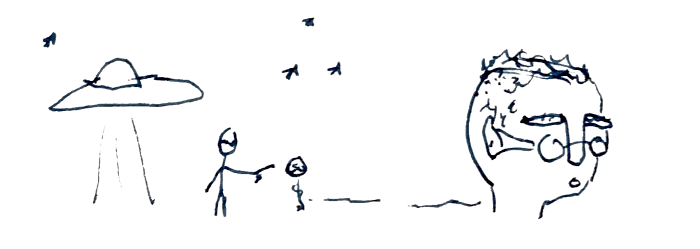
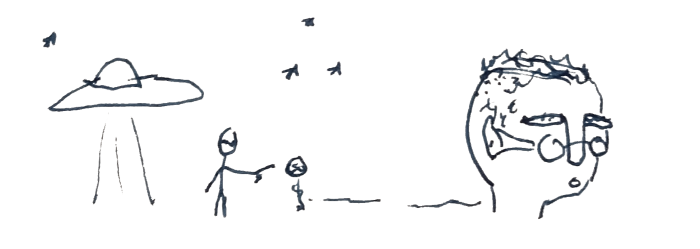
dreamwork page

diff --git a/content/Dreamwork and Hypnosis.md b/content/Dreamwork and Hypnosis.md
@@ -6,3 +6,77 @@ My dreamwork services are for more than ET contact or SETI.  I often work with p
 My dreamwork and hypnosis services start with a free and no-obligation consultation, in which we can meet each other and discuss your inquiry.  I typically recommend a series of 3 90-minute sessions or a single 3-5 hour session, which goes through a methodical and slow process to build rapport and document our work.  My sessions are offered by sliding-scale donation, which you pay via credit card (no PayPal account necessary) after I provide you with a link to download the session recording.
 
 Please email me if you have any questions or use this form to schedule your consultation.
+
+# FAQ
+
+Dreamwork, hypnosis, and ET/NHI contact narratives are sometimes very confusing.  It's okay to not know what hypnosis or dreamwork is.  It's okay you might not remember your dreams.  It's okay that you think ET/NHI contact might be silly or a psy-op.  
+
+Dreamwork is not about believing any one thing, uncovering any one truth, or accomplishing any one goal.  It is not therapy, although it can be therapeutic. Feel free to get in touch if you have any questions through the [[Contact]] page.
+
+## What is dreamwork?
+
+Dreamwork is the practice of working with dreams.  Typically, it involves a process, tradition, guide, facilitator, priest, therapist, etc.  You naturally do dreamwork when you share your dream with a partner, ask about its meaning, and wonder if you should take some action, like talking to the person you dreamed about. There are several definitions of that are particularly relevant for D-SETI Dreamwork.
+
+First, D-SETI Dreamwork looks to the ancient Greek practice of dream incubation that is expressed through the traditions related to Asclepius, the god of dreams and medicine.  These traditions represent a mystical and shamanic legacy from which Western science arose, but then ignored.  For example, I understand the Socratic Myths to be archetypal examples of Western dreamwork.
+
+Second, D-SETI looks to the definition of hypnotic dreams, especially through Deidre Barrett's dissertation.  Barrett used hypnosis to induce dream-like trances, suggesting to the hypnotee that they have a dream.  She then compared the content of the reports.  To my eyes, this use of hypnosis is the most pure and archetypal use of hypnosis, from which the various models of regression hypnosis unconsciously derive. 
+
+Third, D-SETI looks to contemporary dreamwork traditions that derive from Kilton Stewart's influence, which intersected with academic dreamwork but caused controversy.  Stewart, like Carlos Castenda, wrote a fiction about another culture regarding real imaginal things.  This definition of dreamwork opens D-SETI up to the cultural practice of working with dreams, regardless if the literary basis derives from fiction.
+
+There are many other influences on D-SETI Dreamwork, which include Carl Jung and Michael Harner.  D-SETI looks to the International Association of the Study of Dreams for ethical guidelines in dreamwork practice and education.  
+
+## Is D-SETI Dreamwork as modality or special type of dreamwork?
+
+Yes and no.  I was trained in Depth Hypnosis, Beyond Quantum healing, and educated about a lot of psycho-spiritual modalities.  I've synthesized it into my practice and I've honed it down to a repeatable process that I've documented in a draft process definition document and in a training curriculum.  
+
+## How is dreamwork like hypnosis?
+
+D-SETI Dreamwork uses hypnosis to induce a trance and offer the suggestion to have a dreamlike experience that responds to our intentions.  However, dreamwork in general does not need to involve hypnosis.  You could tell stories, act dreams out, make art, or whatever to work with the dream.
+
+## How is D-SETI Dreamwork an alternative to UFO missing time regression?
+
+I am trained in Depth Hypnosis and Beyond Quantum Healing, which offer psycho-spiritual practices like past life regression or age regression.  Both trainings understand the session to be like a spiritual sacrament, suggesting that the experience is more for inner healing than investigation.  However, many experiencers skip over the small text and spiritual words, assuming they already know how hypnosis works because they've seen videos online or read abduction literature.
+
+The actual practice of hypnosis used to generate testimonies of alien encounters is quite controversial.  Most of my writing follows the edge of false memory risk in alien research.  I've written this all out in [[Experiencer's Guide to Hypnosis and False Memory]], the only thing you need to know is that the abduction researchers used at least two distinct types of hypnosis.  First, the more psycho-spiritual dream-like trance hypnosis.  Second, forensic and clinical hypnosis for memory recovery.  The trouble happened when John E. Mack used the term hypnosis in the 1990s because he meant the spiritual-trance type of hypnosis, but everyone assumed he meant the forensic clinical type of hypnosis because he was head of Harvard Psychiatry.  We assumed he learned his medical training informed his hypnosis practice, but actually was trained by Budd Hopkins.
+
+I've can offer the same experience as the abduction researchers, but I interpret it differently.  I know that researchers can easily induce false memories through dream interpretation.  I know that hypnosis typically produces dream-like experiences.  I know that most abductions are highly similar to dreams and happen in similar spaces.  My hypothesis is that these are special types of dreams that are actually real in some psycho-spiritual way.
+
+# How D-SETI Dreamwork Works
+
+The process is always individual.  We build rapport where you are at.  If you want to send me pages of dreams, I'll receive them.   If you want to message on Reddit, let me know.  If you have a question about me or my work, ask it.  I don't assume you read any of my work.  You don't need to. 
+
+If you and I work together, there's already some type of connection.  It's one of the magical parts of my work and is uncanny to me.  People reach out to me because their dreams tell them, because a video of mine shows up on their feed and there's some omen or connection that drives them forward.
+
+## Start with a free and no obligation consultation
+
+If  you are interested in doing dreamwork with me or sharing your story with me for research, I would love to talk with you.  I offer free and no-obligation conversations for us to just chat about working together and to share stories. It is one of my favorite parts of DSETI.
+
+I offer lengthy initial conversations because you probably have a story that you're digesting, either memories or intuitions of dreams and encounters, or else an interest in these topics in general.  Many people haven't had a chance to really process their stories with another person who knows what you're talking about and won't judge you.
+
+It needs to be free and no-obligation because we're building rapport.  You need to trust me with your story, which defines your reality at some level to your dreaming mind.  
+
+## Sliding-scale donation-based service offering
+
+My services are offered by sliding-scale donations, based on a rate of 90 USD per 90 minute session, which I will "discount" in packages or recurrent scheduling ($60 per session when recurrent).  The donation expectation for half day sessions (quantum sessions) is 299 USD. I will send you a donation link after the session, along with links to our recording (if desired).  This process is modeled after my first mentor in Core Shamanism, Tereza Morena.
+
+My work involves dream shamanism, which involves respecting the dream and its characters as if they are real, while learning to discern the reality and meaning of a variety of dreams.  My dream guides insist that I offer this service in this way so that cash is not a barrier.
+
+I generally commit to an initial series of sessions for any donation level, although I may ask for permission to publish future writing on our sessions or inquiry together, which I understand as the spiritual practice of testifying.  
+
+## Decide a path: series of sessions or mega session
+
+Your first encounter with me and D-SETI Dreamwork usually involves three steps, which you can do either in a single half-day session or through a series of 1.5 hour sessions.  The half day session is based on the Beyond Quantum Healing session format, while the series of session is based on the Depth Hypnosis format.  
+
+## The Three Steps of DSETI Dreamwork
+
+We'll talk about the process together, so I won't say too much now.  There are three steps that I like to take with everyone to build rapport and make both of us feel very safe in approaching the session.  Typically, it takes 2-4 hours before I will invite you into a trance that has no goal beyond safely building rapport.  
+
+1. **Life story as dream,** in which you tell your story and we work with it like a dream
+2. **First trance,** in which we build rapport in the hypnotic trance
+3. **Intentional dreamwork session,** in which we perform action to accomplish your intention in the trance
+
+## Next step: schedule your consultation
+
+If you are interested in doing dreamwork with me, please get in touch.  You can schedule a consultation below.  Feel free to email me at daniel@dseti.org if you need special scheduling (I talk to people all over the world and make it work) or have any questions.
+
+<iframe src="https://calendar.google.com/calendar/appointments/schedules/AcZssZ1_eQera5JML1XH6OfX8zXpbNjGW6KxFYzaRP8BC_nE5Thee6ztEf7vbJ3y4AUbCSrALWIocpMi?gv=true" style="border: 0" width="100%" height="850" frameborder="0"></iframe>

diff --git a/content/Blog/05-07-26 Remembering the D-SETI Message.md b/content/Blog/05-07-26 Remembering the D-SETI Message.md
@@ -53,11 +53,11 @@ Therefore, as one of the first people in Sean's Anomalous Studies concentration,
 
 It turns out, there's a complicated history that must actually be addressed before we continue our academic work.  There was an inquiry of Mack at Harvard, but it was inconclusive.  There is really no good literature on which to base support policies for experiencers.  The best way is to treat everything like a spiritual practice and assume that ET/NHIs are like angels.  Academically, there is some level of narrative detachment, focusing the studies only on the qualitative analysis of reports that stop short of making substantial claims about the world.  In other words, no one will say if Bledsoe is deluded or hoaxing.  No one will say if its is wise for media professionals oversee abductee support groups endorsed by friend-academics who don't quote false memory research.
 
-Anyways, I wrote [[Secret Lurid History of Alien Abduction]] and [[Alien Abduction Believer Syndrome]] then published them on Youtube and my blog, then was kicked out of The Experiencer Group by Jay Christopher King.  He said he received complaints about my inquiry and didn't like how I was going after a well-respected researcher.  I responded in email with strongly worded questions about literature and terms of service, he then forwarded our exchange to Esjborn-Hargens, who had a conversation with me that I needed to clarify was not disciplinary.  
+Anyway, I wrote [[Secret Lurid History of Alien Abduction]] and [[Alien Abduction Believer Syndrome]] then published them on Youtube and my blog, then was kicked out of The Experiencer Group by Jay Christopher King.  He said he received complaints about my inquiry and didn't like how I was going after a well-respected researcher.  I responded in email with strongly worded questions about literature and terms of service, he then forwarded our exchange to Esjborn-Hargens, who had a conversation with me that I needed to clarify was not disciplinary.  
 
 All this contributed to my ethical crisis that dismembered me and my practice.  I was deeply confused by everything at this point, so I did was I tend to do in moments of stress, I write.  I wrote [[Risks of Anomalous Retrocognition]] in about 10 days, then forwarded it to Sean, who suggested I write a pre-grievance document.  After that I met with Martin, who ignored my concerns, but later was revealed to be ethically compromised by the Epstein files.  I was confused that Sean would endorse TEG and King on Mishlove's New Thinking Allowed program, which itself was brought to you by CIHS.  Why would no one from CIHS or TEG address my concerns that Mackian support groups or research risk harmful false memories?
 
-I am no longer confused.  Jay Christopher King kicked me out because he could stand my writing the [[Secret Lurid History of Alien Abduction]] because it resonated too strongly with his own situation.  It discussed how Hopkins and Jacobs were abused their power in semi-sexual ways with vulnerable people in order to sell their stories.  Jay was purportedly supporting alien abductees and experiencers, while also sending them unsolicited d\*ck pics.  His behavior oddly mirrors Hopkins, who carried around pictures of his support victim's genitals as evidence for alien abduction.
+I am no longer confused.  Jay Christopher King kicked me out because he couldn't stand my writing the [[Secret Lurid History of Alien Abduction]] because it resonated too strongly with his own situation.  It discussed how Hopkins and Jacobs were abused their power in semi-sexual ways with vulnerable people in order to sell their stories.  Jay was purportedly supporting alien abductees and experiencers, while also sending them unsolicited d\*ck pics.  His behavior oddly mirrors Hopkins, who carried around pictures of his support victim's genitals as evidence for alien abduction.
 
 I wanted to publish some or all of the book-length [[Risks of Anomalous Retrocognition]].  I'm releasing it now, directly through this new website, but will not produce print or e-book out of it.  I didn't want to edit or rewrite any of it (I'd rather focus on anything else at this point), but my soul energy or creative force was tied up in this ethical crisis and dropping out of my PhD program.  I didn't want to publish it because I didn't want to communicate with Jay to ask permission.  But now, if Jay felt it was appropriate to send pictures like that to experiencers seeking his support, then he surely will not mind me paraphrasing our email exchanges about TEG services rendered.  Ultimately, he forwarded this concern to Sean who handled it in his capacity as my program director, thus moving the concern to a public domain with no expectation of privacy.  However, I have to be careful here because people trust me with their secret dreams.
 
@@ -142,5 +142,3 @@ I thought, I need to write the blog for this project, to define the scope and in
 I have a message and dream that is worth sharing.  It came to me through art, writing, and dreams.  Through embodied curiosity.  Not through litigation, skepticism, or ethical complaints.  I am publishing all my D-SETI writing in this open way, through a public Github repository and this new website it generates, as a foundation and context for the words I will write.
 
 The story that I tell is much bigger than me.  I've had to fail enough in this vocation to realize it is not about me, my dreams, or my ethics.  It is about the aggregation of all the dreams I have had the honor to read, to explore, to collect, and analyze.  
-
-I'm going to draft some long form essays

diff --git a/content/Contact.md b/content/Contact.md
@@ -23,6 +23,7 @@ My services are offered by sliding-scale donations, based on a rate of 90 USD pe
 My work involves dream shamanism, which involves respecting the dream and its characters as if they are real, while learning to discern the reality and meaning of a variety of dreams.  My dream guides insist that I offer this service in this way so that cash is not a barrier.
 
 I generally commit to an initial series of sessions for any donation level, although I may ask for permission to publish future writing on our sessions or inquiry together, which I understand as the spiritual practice of testifying.  
+
 # How will your session or communications be used?
 I will record your session only after you agree.  I will publish your story or my research on it only after you agree.  Generally, I will write a detailed report about my inquiry that I will have you review, then will publish via my blog or a document, after which I will refer to that document in my future research. 
 
